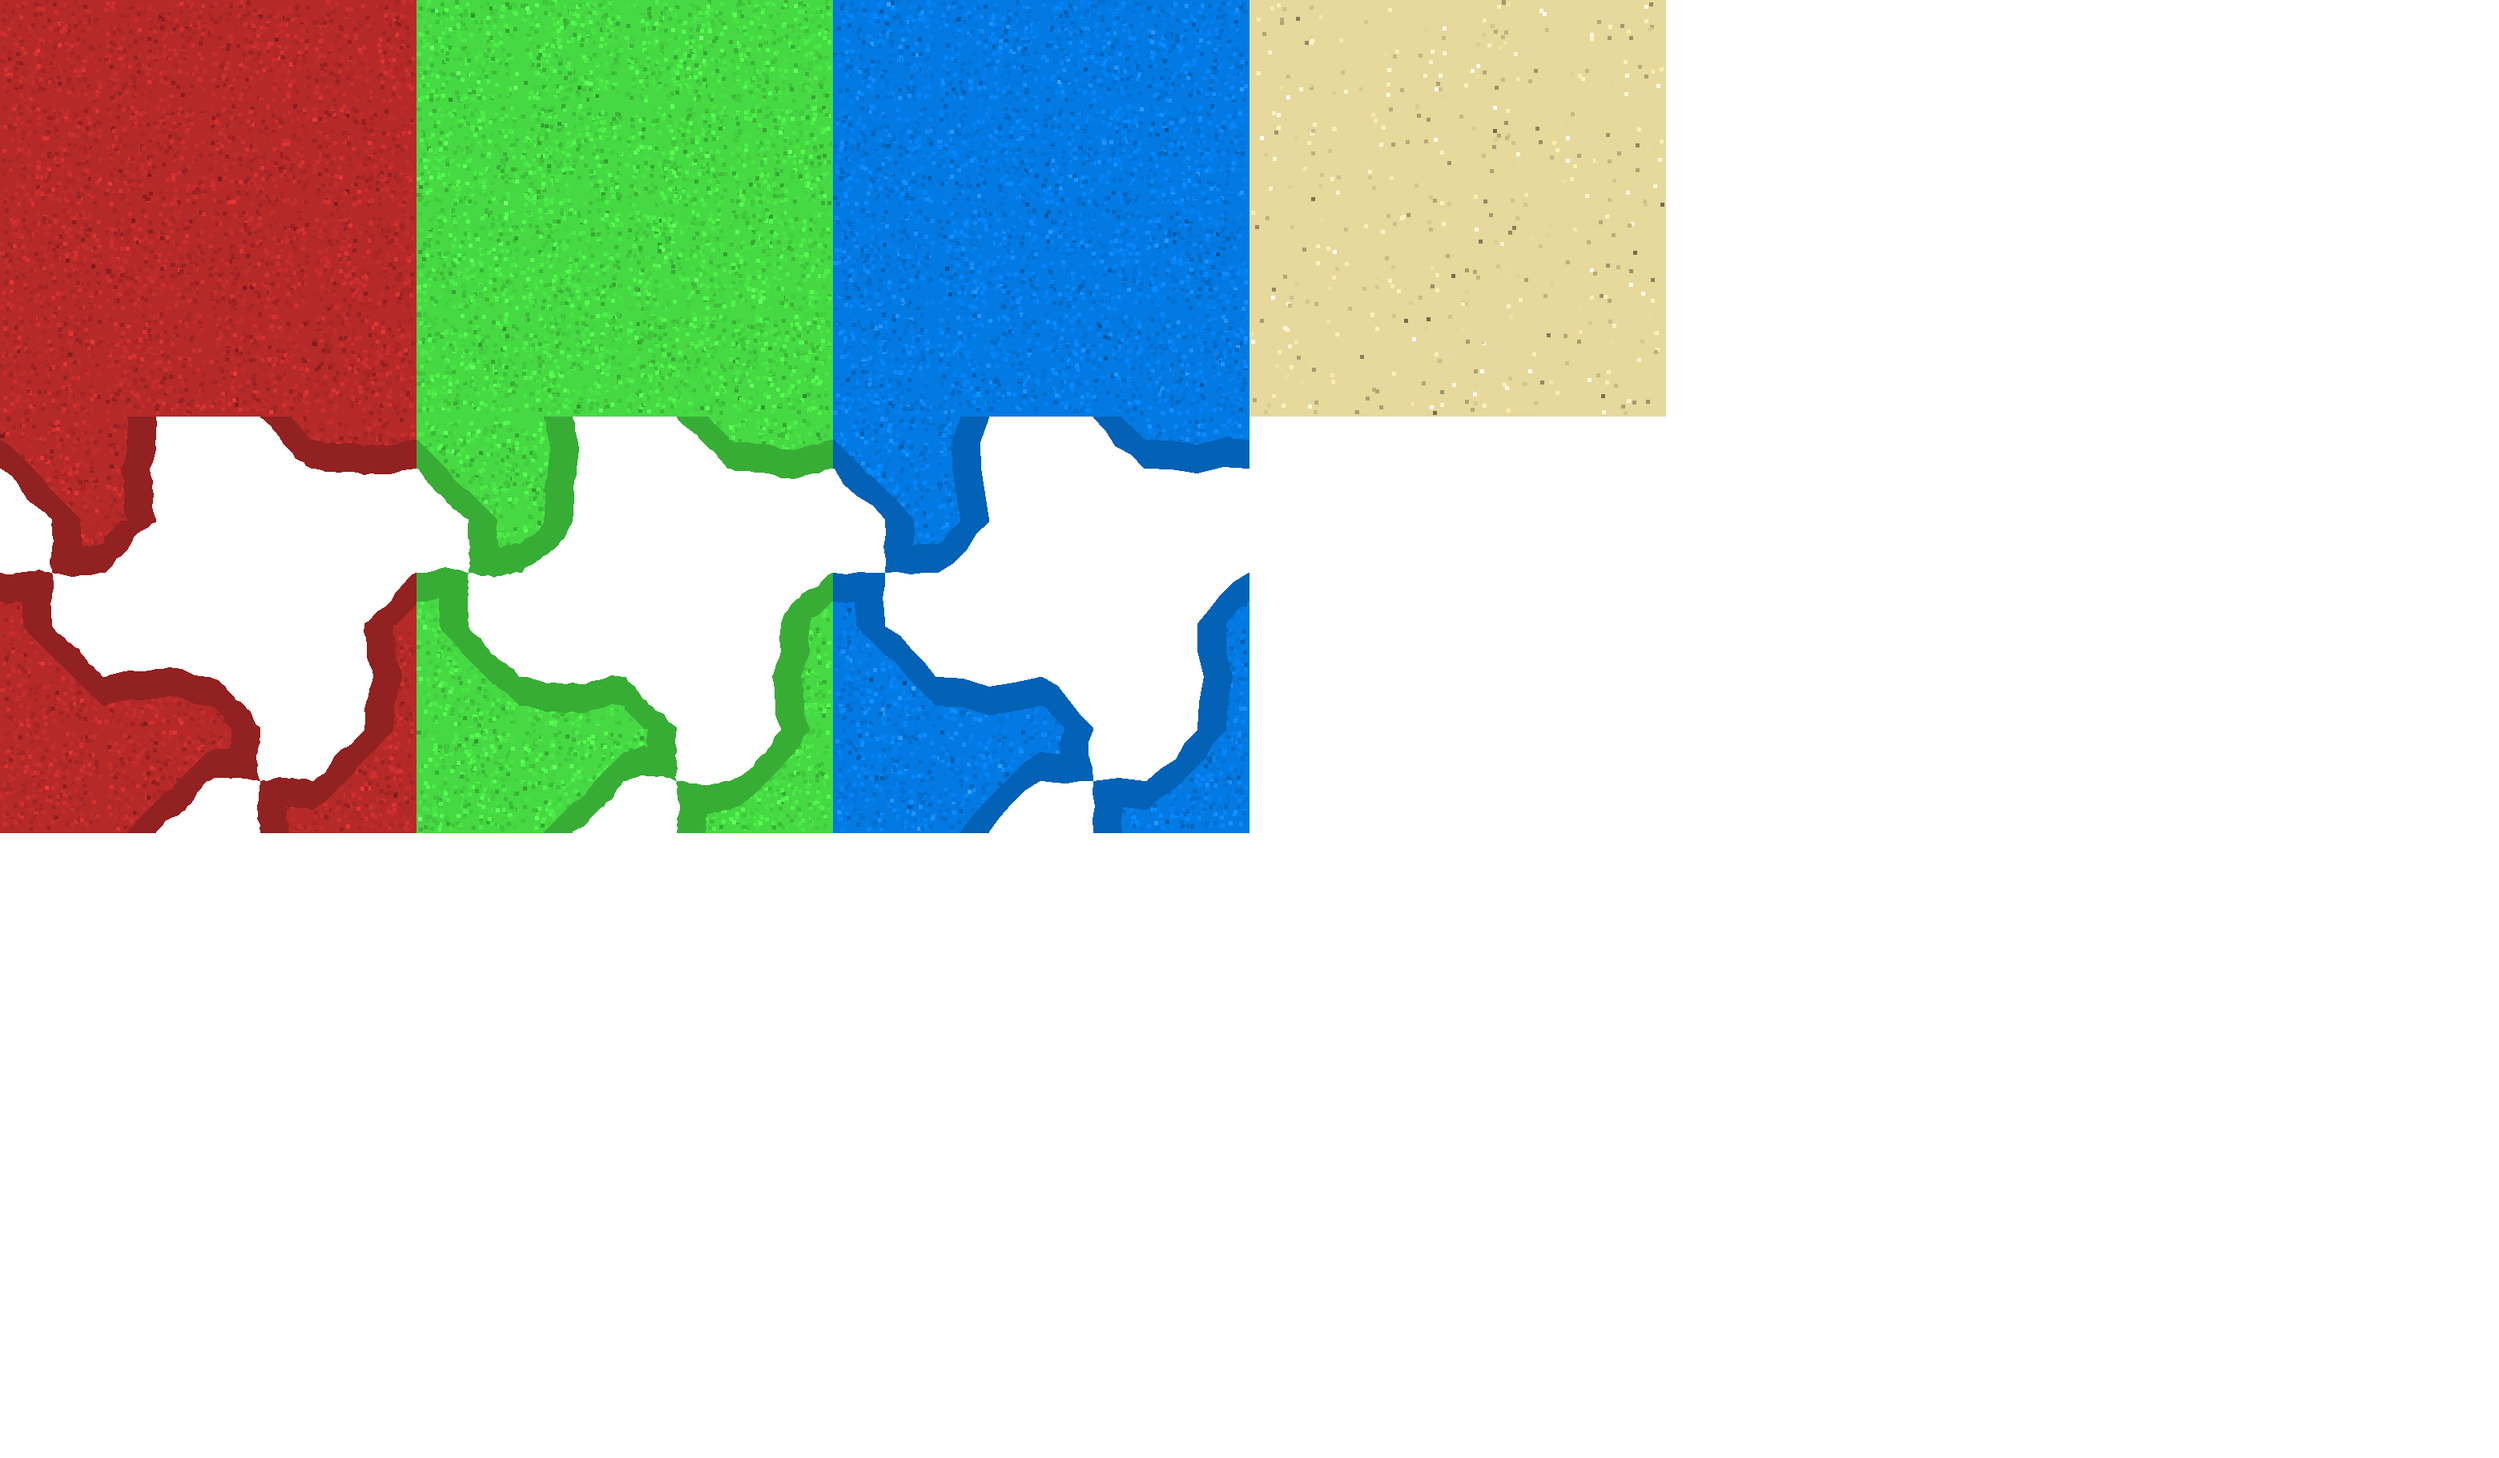
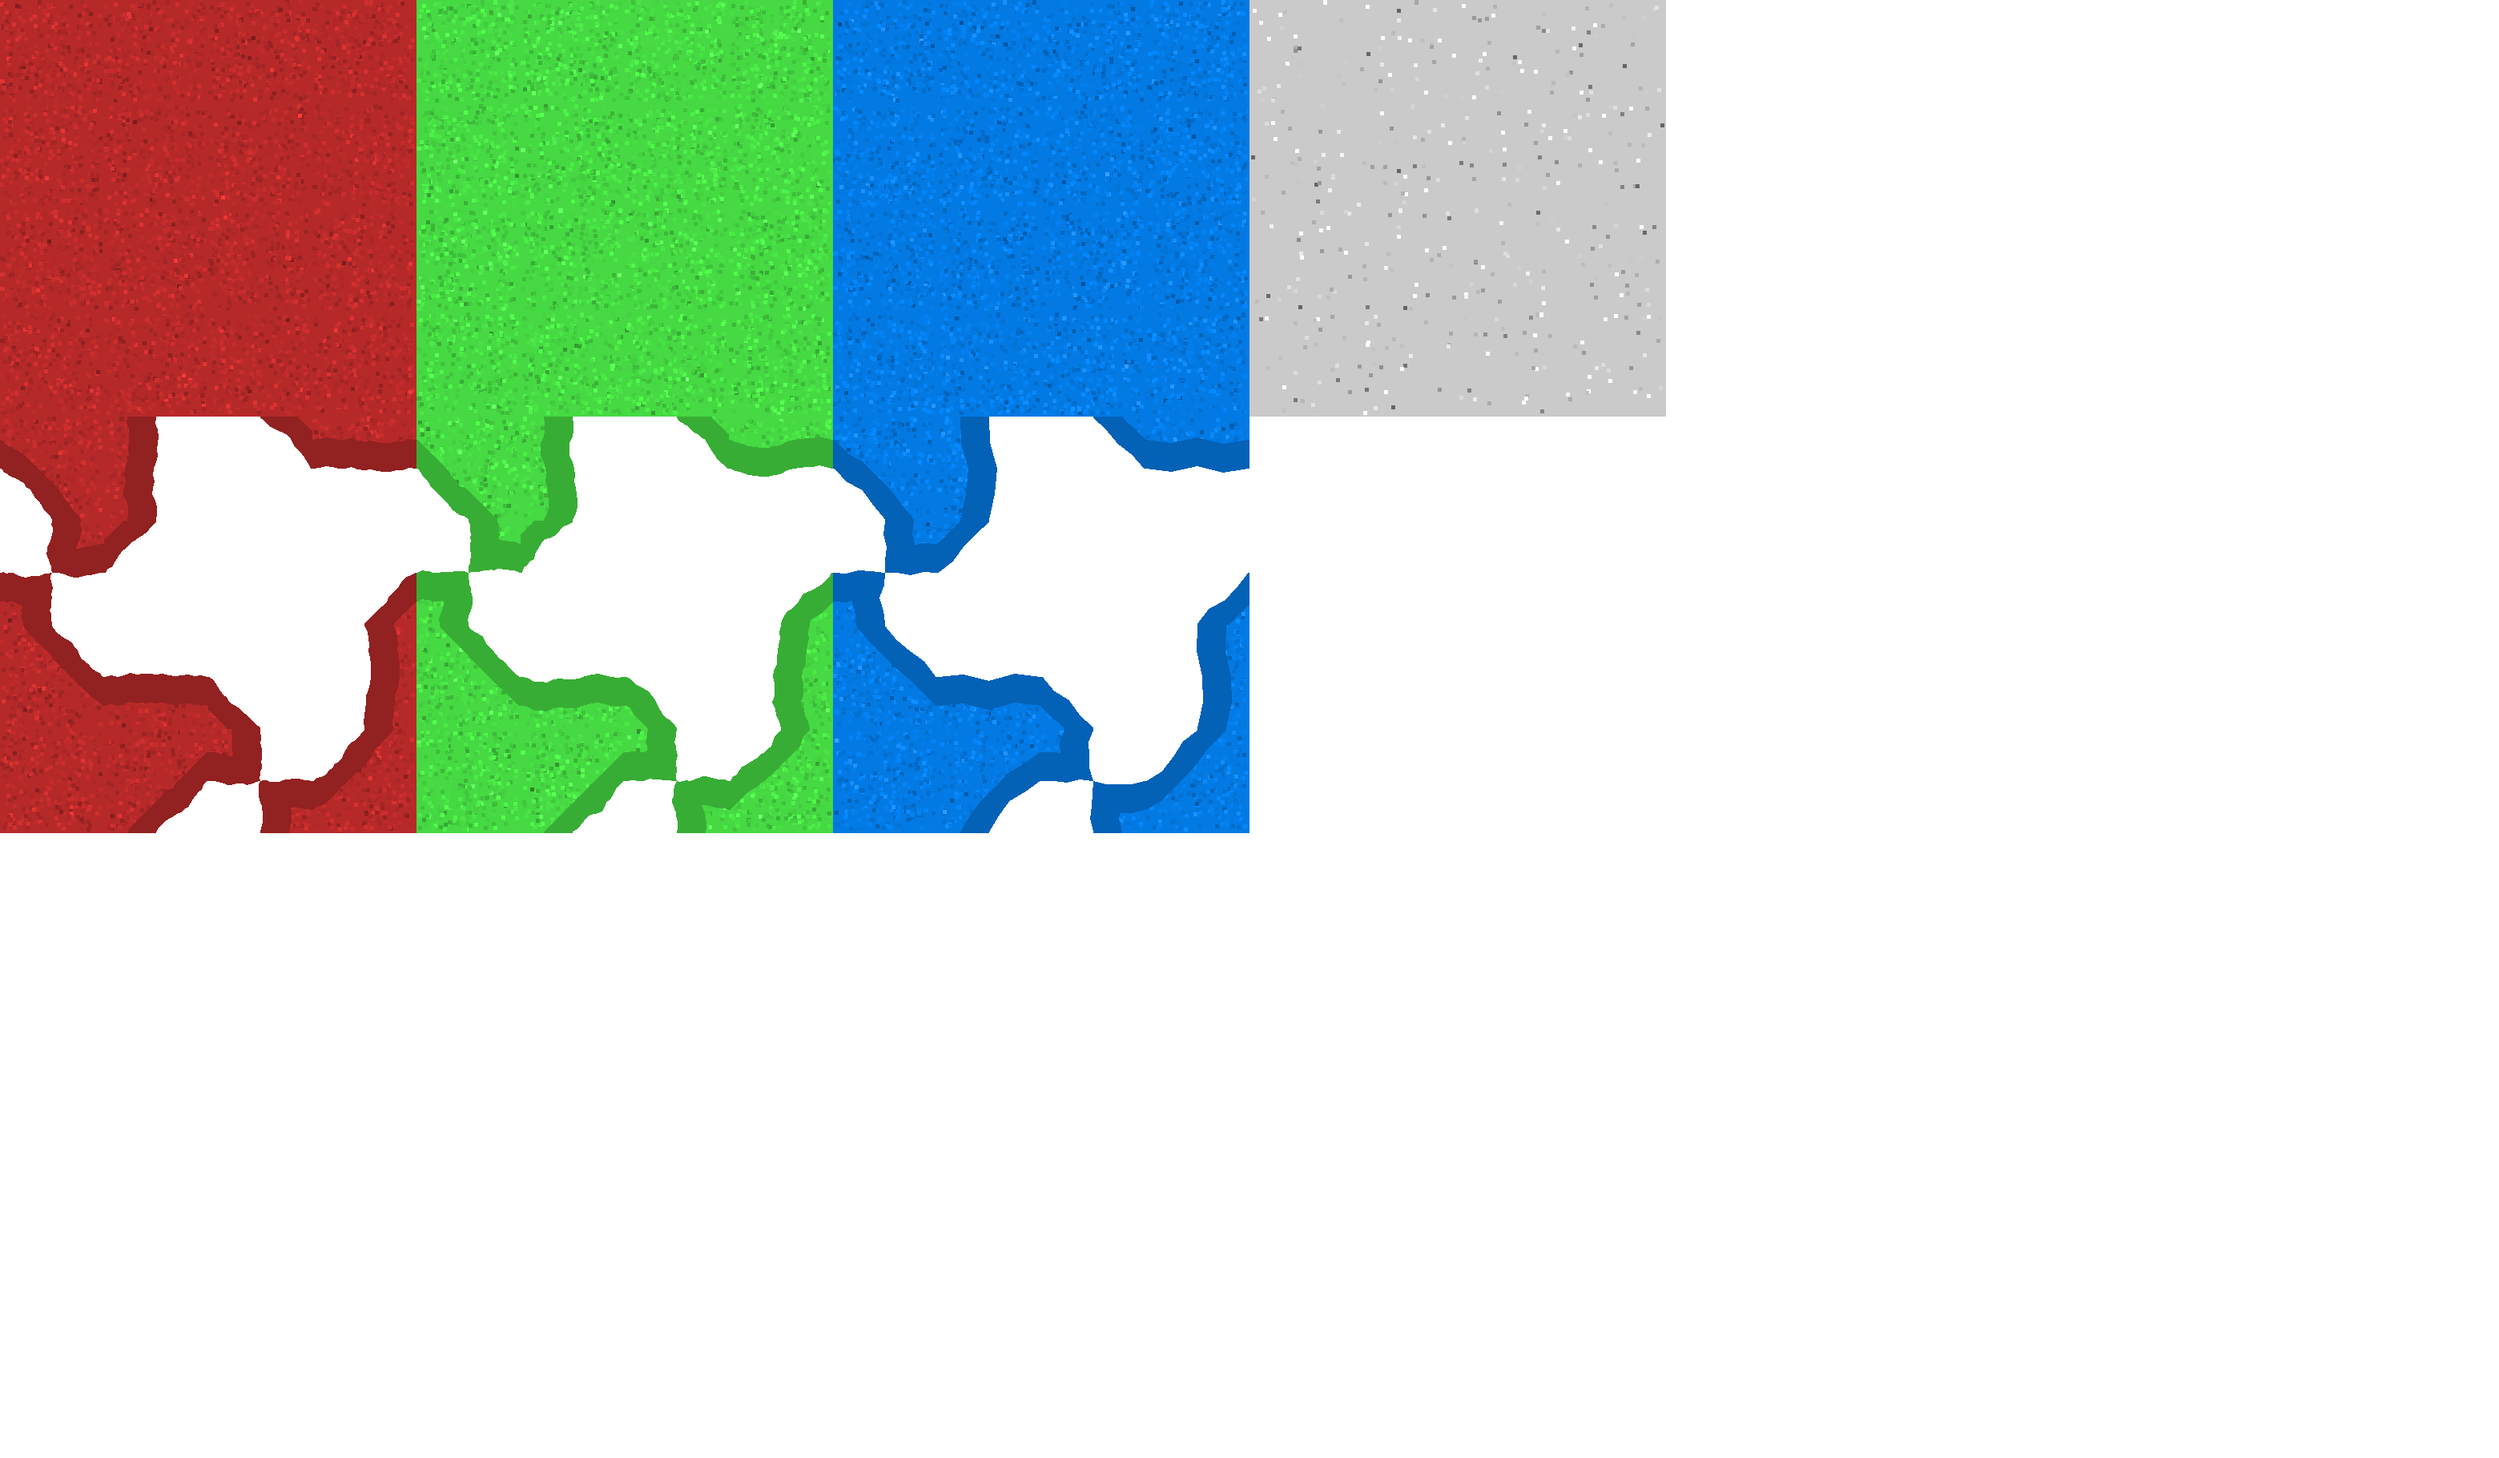
add final star

diff --git a/data/map/mask.tsx b/data/map/mask.tsx
@@ -119,7 +119,7 @@
    <wangcolor name="Red" color="#b62929" tile="0" probability="1"/>
    <wangcolor name="Green" color="#46d943" tile="4" probability="1"/>
    <wangcolor name="Blue" color="#37ae3" tile="8" probability="1"/>
-   <wangcolor name="Sand" color="#e7d89c" tile="12" probability="1"/>
+   <wangcolor name="Sand" color="#cacaca" tile="12" probability="1"/>
    <wangtile tileid="0" wangid="0,1,0,1,0,1,0,1"/>
    <wangtile tileid="1" wangid="0,1,0,1,0,1,0,1"/>
    <wangtile tileid="2" wangid="0,1,0,1,0,1,0,1"/>

diff --git a/code/bits/WorldBaseScene.cc b/code/bits/WorldBaseScene.cc
@@ -52,12 +52,15 @@ namespace glt {
   , m_mask(game, resources)
   , m_hero(game, resources)
   , m_mask_map(game, resources.map)
+  , m_star(resources.star_sprite, game->render_manager(), game->resource_manager())
   , m_sounds(game, resources)
   {
-    set_clear_color(0xE8D99D);
+    set_clear_color(0xCBCBCB);
 
     set_world_size(TileSize * 10);
     set_world_center(TileSize * 5);
+
+    m_star.set_location(game->world_state()->map.ref->goal * TileSize);
 
     add_model(game->world_model());
 
@@ -65,6 +68,7 @@ namespace glt {
 
     add_world_entity(&m_ground_map);
     add_world_entity(&m_mask);
+    add_world_entity(&m_star);
     add_world_entity(&m_hero);
     add_world_entity(&m_mask_map);
     add_world_entity(&m_sounds);

diff --git a/code/bits/WorldResources.cc b/code/bits/WorldResources.cc
@@ -8,6 +8,7 @@
 #include <gf2/core/ShapeBuffer.h>
 #include <gf2/framework/BundleBuilder.h>
 
+#include "Constants.h"
 #include "Game.h"
 
 namespace glt {
@@ -138,6 +139,9 @@ namespace glt {
 
     placeholder_mask.texture = "sprites/unknown_mask.png";
 
+    star_sprite.texture = "sprites/star.png";
+    star_sprite.data.color = GelatineYellow;
+
     red_mask_audio.filename = "audio/red-mask.ogg";
     red_mask_audio.data.loop = true;
 
@@ -174,6 +178,8 @@ namespace glt {
     builder.add_in_bundle(blue_mask_sprite);
     builder.add_in_bundle(blue_mask_sprite_shaded);
     builder.add_in_bundle(placeholder_mask);
+
+    builder.add_in_bundle(star_sprite);
 
     return builder.make_bundle();
   }

diff --git a/code/bits/Constants.h b/code/bits/Constants.h
@@ -1,13 +1,18 @@
 #ifndef GLT_CONSTANTS_ACT_H
 #define GLT_CONSTANTS_ACT_H
 
+#include <gf2/core/Color.h>
 #include <gf2/core/Time.h>
 #include <gf2/core/Vec2.h>
 
 namespace glt {
+
   constexpr gf::Vec2F TileSize = {128.0f, 128.0f};
   constexpr gf::Time HeroMoveCooldown = gf::seconds(0.40f);
   constexpr gf::Time MaskAudioFade = gf::seconds(2.0f);
+
+  constexpr gf::Color GelatineYellow = 0xF5E74E;
+
 }
 
 #endif // GLT_CONSTANTS_ACT_H

diff --git a/code/bits/WorldResources.h b/code/bits/WorldResources.h
@@ -33,6 +33,8 @@ namespace glt {
     gf::SpriteResource blue_mask_sprite_shaded;
     gf::SpriteResource placeholder_mask;
 
+    gf::SpriteResource star_sprite;
+
     gf::AudioSourceResource red_mask_audio;
     gf::AudioSourceResource green_mask_audio;
     gf::AudioSourceResource blue_mask_audio;

diff --git a/code/bits/KickoffResources.cc b/code/bits/KickoffResources.cc
@@ -6,15 +6,10 @@
 #include <gf2/core/Color.h>
 #include <gf2/framework/BundleBuilder.h>
 
+#include "Constants.h"
 #include "Game.h"
 
 namespace glt {
-
-  namespace {
-
-    constexpr gf::Color GelatineYellow = 0xF5E74E;
-
-  }
 
   KickoffResources::KickoffResources()
   {

diff --git a/code/bits/WorldBaseScene.h b/code/bits/WorldBaseScene.h
@@ -41,6 +41,8 @@ namespace glt {
     HeroEntity m_hero;
     MapMaskEntity m_mask_map;
 
+    gf::SpriteEntity m_star;
+
     SoundEntity m_sounds;
   };
 
